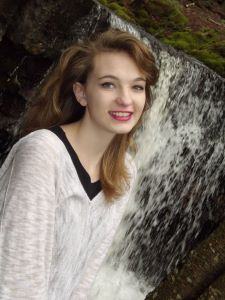
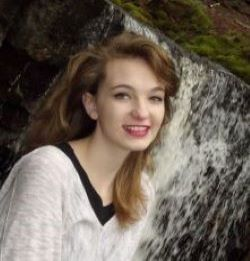
style changes, made things more circular

diff --git a/contact.html b/contact.html
@@ -47,62 +47,39 @@
     </nav>
     <div class="container">
     <div class="row">
-        <main class="container main-container col-lg-8 justify-content-lg-center justify-content-md-center">
+        <main class="container main-container col-lg-10 justify-content-lg-center justify-content-md-center">
             
-                    <form class="block form-horizontal">
                         <h1 class="block-header">Contact Me</h1>
                         <hr />
-                        <div class="form-group">
-                            <label for="name" class="col-sm-2 control-label"></label>
-                            <div class="col-sm-10">
-                                <input type="text" class="form-control" id="name" placeholder="Name" required>
-                            </div>
-                        </div>
-                        <div class="form-group">
-                            <label for="email" class="col-sm-2 control-label"></label>
-                            <div class="col-sm-10">
-                                <input type="email" class="form-control" id="email" placeholder="Email" required>
-                            </div>
-                        </div>
-                        <div class="form-group">
-                            <label class="col-sm-2 control-label" for="msg"></label>
-                            <div class="col-sm-10">
-                                <textarea id="msg" class="form-control" rows="4" placeholder="Message" required></textarea>
-                            </div>
-                        </div>
-                        <br>
-                        <input type="submit" class="form-control submit" value="SEND MESSAGE">
-                    </form>
+
+                        <div class="connect">
+                            <a href="https://www.linkedin.com/in/cassandra-heil-5204b5197/">
+                            <img src="./images/linkedin.png" alt="linkedIn">
+                              <h3>LinkedIn</h3>
+                            </a></div>
+                      
+                            <div class="connect">
+                            <a href="https://github.com/Cassandraheil">
+                            <img src="./images/github.png" alt="Github">
+                              <h3>Github</h3>
+                            </a></div>
+                      
+                            <div class="connect">
+                              <a href="https://docs.google.com/document/d/1_MrSLcZXvkkSLI7hSz1e7cRnJU-4QXVVDaudXpB8zyc/edit?usp=sharing">
+                              <img src="./images/resume.png" alt="Resume">
+                              <h3>Resume</h3></a>
+                              </div>
+
+                              <div class="connect">
+                                <img src="./images/emailz.jpg" alt="Email">
+                                <h3>Email</h3>
+                                  <h5>Cassandraheil19@gmail.com</h5>
+                                </div>
+                      
  
             <div class="col-sm-2"></div>
         </main>
-        <section class="container main-container col-lg-2 justify-content-lg-center justify-content-md-center">
-            <h2 id="connectWithMe">Connect with me</h2>
-      
-            <div class="connect">
-            <a href="https://www.linkedin.com/in/cassandra-heil-5204b5197/">
-            <img src="./images/linkedin.png" alt="linkedIn">
-              <h3>LinkedIn</h3>
-            </a></div>
-      
-            <div class="connect">
-            <a href="https://github.com/Cassandraheil">
-            <img src="./images/github.png" alt="Github">
-              <h3>Github</h3>
-            </a></div>
-      
-            <div class="connect">
-              <a href="https://docs.google.com/document/d/1_MrSLcZXvkkSLI7hSz1e7cRnJU-4QXVVDaudXpB8zyc/edit?usp=sharing">
-              <img src="./images/resume.png" alt="Resume">
-              <h3>Resume</h3>
-            </a></div>
-      
-            <div class="connect">
-              <img src="./images/emailz.jpg" alt="Email">
-                <p>Cassandraheil19@gmail.com</p>
-              </div>
-      
-          </section>
+        
     </div>
     </div>
 

diff --git a/portfolio.html b/portfolio.html
@@ -54,7 +54,7 @@
     <div class="container">
       <div class="row">
 
-        <section class="container main-container  col-lg-12 justify-content-lg-center justify-content-md-center">
+        <section class="container portfolio-container col-lg-12 justify-content-lg-center justify-content-md-center">
 
           <h1>Portfolio</h1>
 
@@ -62,7 +62,7 @@
             <div id="owl-example" class="owl-carousel">
 
               <div class="item">
-                <img src="./images/cartoon-burger.jpg" alt="burger">
+                <img class="pic" src="./images/cartoon-burger.jpg" alt="burger">
                 <a href="https://hidden-tor-95974.herokuapp.com/">
                   <h4 id="burger">Eat-a-Burger</h4>
                 </a>
@@ -76,7 +76,7 @@
 
 
               <div class="item">
-                <img src="./images/botw.jpg" alt="BOTW">
+                <img class="pic" src="./images/botw.jpg" alt="BOTW">
                 <a href="https://cassandraheil.github.io/TriviaGame/">
                   <h4 id="zeldaTrivia">Zelda Trivia</h4>
                 </a>
@@ -89,7 +89,7 @@
 
 
               <div class="item">
-                <img src="./images/steven-universe.jpg" alt="Steven Universe">
+                <img class="pic" src="./images/steven-universe.jpg" alt="Steven Universe">
                 <a href="https://cassandraheil.github.io/AJAX-and-API/">
                   <h4 id="cartoon">Cartoon Gifs</h4>
                 </a>
@@ -102,7 +102,7 @@
 
 
               <div class="item">
-                <img src="./images/train.jpg" alt="Train Image">
+                <img class="pic" src="./images/train.jpg" alt="Train Image">
                 <a href=" https://cassandraheil.github.io/Train-Scheduler/">
                   <h4 id="train">Train Scheduler</h4>
                 </a>
@@ -115,7 +115,7 @@
 
 
               <div class="item">
-                <img src="./images/food.jpg" alt="food">
+                <img class="pic" src="./images/food.jpg" alt="food">
                 <a href="https://cassandraheil.github.io/Mood-Food/">
                   <h4 id="food">Mood Food!</h4>
                 </a>
@@ -126,7 +126,7 @@
               </div>
 
               <div class="item">
-                <img src="./images/adventureTimejpg.jpg" alt="Adventuretime">
+                <img class="pic" src="./images/adventureTimejpg.jpg" alt="Adventuretime">
                 <a href="https://cassandraheil.github.io/Clicky-Game/">
                   <h4 id="train">Memory Game</h4>
                 </a>
@@ -138,7 +138,7 @@
 
 
               <div class="item">
-                <img src="./images/friends.jpeg" alt="friends">
+                <img class="pic" src="./images/friends.jpeg" alt="friends">
                 <a href="https://fierce-anchorage-25828.herokuapp.com/">
                   <h4 id="friend">Friend Finder</h4>
                 </a>
@@ -150,7 +150,7 @@
 
 
               <div class="item">
-                <img src="./images/to-do-list.png" alt="quarantine">
+                <img class="pic" src="./images/to-do-list.png" alt="quarantine">
                 <a href="https://stark-badlands-78659.herokuapp.com/">
                   <h4 id="burger">Quaran-To-Dos</h4>
                 </a>
@@ -161,7 +161,7 @@
               </div>
 
               <div class="item">
-                <img src="./images/crystal.jpg" alt="Blue Crystal">
+                <img class="pic" src="./images/crystal.jpg" alt="Blue Crystal">
                 <a href="https://cassandraheil.github.io/unit-4-game/">
                   <h4 id="crystal">Crystal Collector!</h4>
                 </a>
@@ -172,7 +172,7 @@
               </div>
 
               <div class="item">
-                <img src="./images/ornaments.jpg" alt="pic">
+                <img class="pic" src="./images/ornaments.jpg" alt="pic">
                 <a href="https://github.com/Cassandraheil/Mongo-database">
                   <h4 id="crystal">CwazyStuff</h4>
                 </a>
@@ -221,7 +221,8 @@
 
         <div class="connect">
           <img src="./images/emailz.jpg" alt="Email">
-          <p>Cassandraheil19@gmail.com</p>
+          <h3>Email</h3>
+          <p class="email">Cassandraheil19@gmail.com</p>
         </div>
 
       </section>

diff --git a/index.html b/index.html
@@ -56,8 +56,8 @@
       <img class="me" src="images/Senior Picture.jpg" alt="me">
       
       <p>Hello! My name is Cassandra Heil! As a young fullstack developer, I work hard to expand my
-        knowledge and gain experience to make myself valuable. This website was designed by me to polish out my skills. The applications I have created are on the portfolio page. I hope you enjoy learning a bit about me!</p>
-        <p>After high school, I went to HACC(Harrisburg Area Community College) and got an associates degree in business administration. Although I got a degree in business, I felt like I wanted to create something I could show off and be proud of. That's when I started looking into coding. In December of 2019, I started taking the UPENN Coding Bootcamp to teach me the basics of programming.</p>
+        knowledge and gain experience to make myself valuable. This website was designed by me to polish my skills, ans showcase my work. The applications I have created are on the portfolio page. I hope you enjoy learning a bit about me!</p>
+        <p>After high school, I went to HACC(Harrisburg Area Community College) and got an associates degree in business administration. Although I got a degree in business, I felt like I wanted to create something I could show off and be proud of. That's when I started looking into coding. In December of 2019, I started taking the UPENN Coding Bootcamp to teach me the basics of programming. Although the class was insanely challenging, I was able to stick through it and learn all that I could.</p>
         <p>Some valuable skills I have aquired include:
           <ul class="skillList">
           <li>HTML</li>
@@ -88,7 +88,8 @@
         Any Legend of Zelda game is my favorite game to play, half of the fun is the nostolgia and the other half is
         just the amazingness of the game. My bunny's name is Teemo. He is
         white and adorable, with black tipped ears. To see how cute Teemo is click the bunny <a href="./bunny.html" >🐰</a>. I thrive in the fantasy of Dungeons and Dragons because of it's collaborative and creative nature! It's a good way to make friends and problem solving.
-        This is why I encourage people to try it.</p>
+        This is why I encourage people to try it even if it doesn't at first seem like their cup of tea. Most DnD players love introducing people to the game.</p>
+
       
 
     </section>
@@ -113,10 +114,11 @@
         <h3>Resume</h3>
       </a></div>
 
-      <div class="connect">
+      <div class="connect" data-toggle="tooltip" data-placement="bottom" title="Cassandraheil19@gmail.com">
         <img src="./images/emailz.jpg" alt="Email">
-          <p>Cassandraheil19@gmail.com</p>
+        <h3>Email</h3>
         </div>
+        
 
     </section>
   </div>

diff --git a/bootstrap.css b/bootstrap.css
@@ -4,21 +4,30 @@
     float: left;
     margin-top: 10px;
     margin-right: 25px;
+    border: 10px double gainsboro;
+    border-radius: 350px;
 }
-.mywork {
+/* .mywork {
     height: auto;
     width: 100%;
     margin-top: 10px;
     margin-right: 25px;
+    border: 10px solid black;
+} */
+.pic {
+    border: 5px solid black;
+    border-radius: 100px;
 }
 
 #logo{
     font-family: 'molle';
-    padding: 5px;
+    padding: 10px;
+    padding-top: 10px;
     padding-left: 15px;
     padding-right: 15px;
     background-color: navy;
     border-radius: 30px;
+    font-size: 45px;
 }
 .container {
     width: 100%;
@@ -34,15 +43,21 @@ header {
 }
 .main-container {
     padding-top: 130px;
-    background: #fff;
+    background-color: aliceblue;
     padding: 30px; 
     padding-bottom: 80px;
     width: 100%;
     max-width: 960px;
-    border: 1px solid #ddd;
+    border: 1px solid lightcyan;
     height: 100%;
     position: relative;
     margin: 25px;
+    overflow: auto;
+    border-radius: 50px;
+}
+.portfolio-container {
+    padding-top: 30px;
+    max-width: 1500px;
     overflow: auto;
 }
 
@@ -51,7 +66,7 @@ body {
     font-size: 18px;
     line-height: 34px;
     font-family: Arial, Helvetica, sans-serif;
-    color: #777;
+    color: darkslategrey;
 }
 
 
@@ -144,23 +159,30 @@ form .submit:hover{
     padding: 10px;
     background-color: navy;
     margin: 10px;
+    border: 5px solid dimgray;
 }
+
 
 #food{
     font-family: 'Gorditas';
+    color: darkred;
 }
 #train{
     /* font-family: 'Allerta Stencil'; */
     font-family: 'Cinzel Decorative';
+    color: darkslategrey;
 }
 #cartoon{
-    font-family: 'Spicy Rice'; 
+    font-family: 'Spicy Rice';
+    color: darkmagenta; 
 }
 #zeldaTrivia{
     font-family: 'Press Start 2P';
+    color: darkgreen;
 }
 #crystal{
     font-family: 'Fontdiner Swanky';
+    color: rgb(40, 72, 168);
 }
 #zeldaWord{
     font-family: 'Alegreya';
@@ -192,6 +214,7 @@ h4{
 
 ul {
     border: 5px solid grey;
+    border-radius: 30px;
 }
   
 
